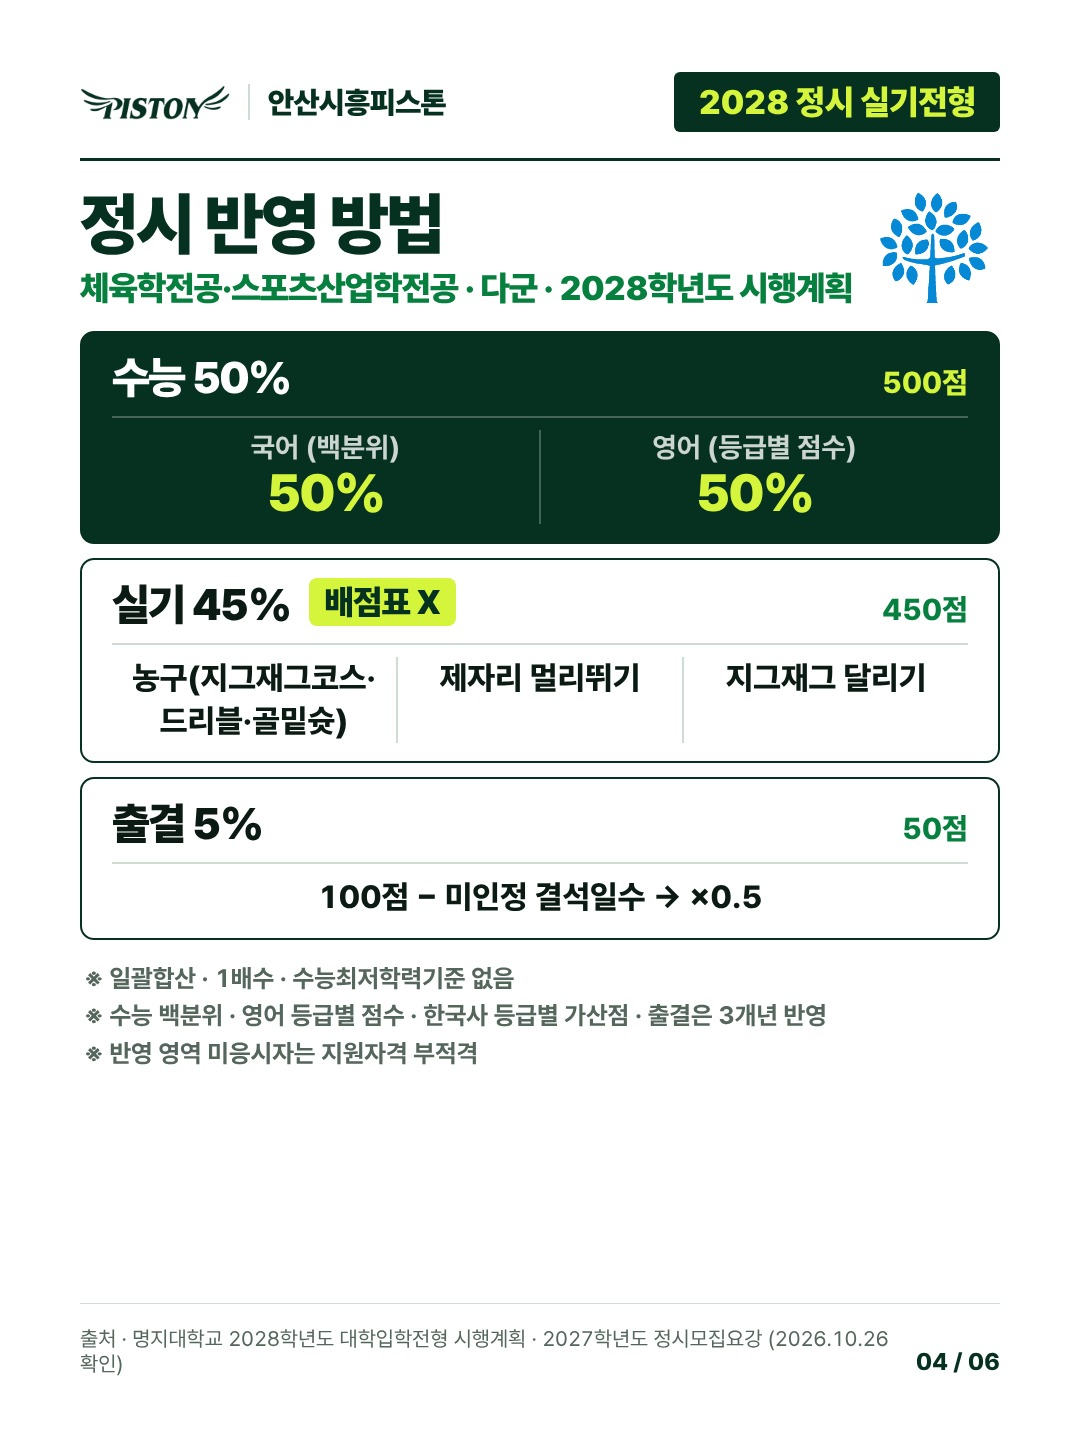
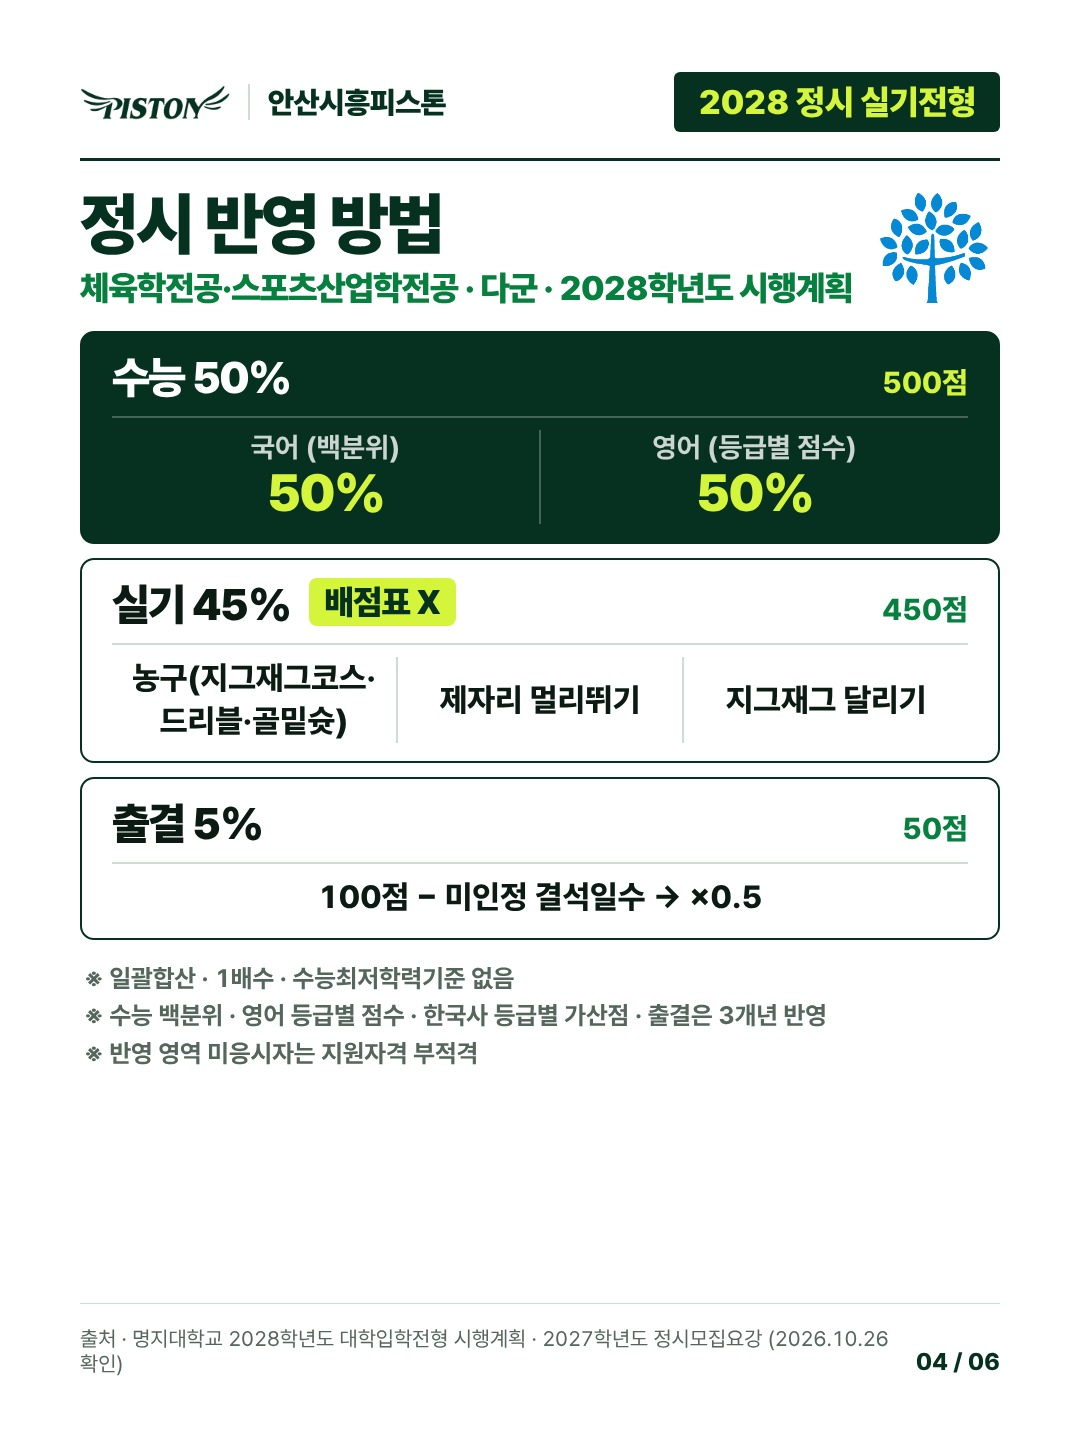
반영방법: 표준점수/변환점수 표기, 칩 정렬
Claude-Session: https://claude.ai/code/session_01EGTn7G8nWP1yv5M2jqmoFb

Changed region(s): [[0.3972, 0.4375, 0.6111, 0.5], [0.6722, 0.4375, 0.8556, 0.5]]

diff --git a/social/out/hanyang-erica-jeongsi-jeongsi/blog.md b/social/out/hanyang-erica-jeongsi-jeongsi/blog.md
@@ -27,7 +27,7 @@
 ## 정시 반영 방법 (스포츠과학부 · 가군 · 2028학년도 시행계획)
 | 구분 | 비율 · 점수 | 반영 내용 |
 | --- | --- | --- |
-| 수능 | 70% · 700점 | 국어 35% · 영어 35% · 수학 또는 탐구 30% (탐구 1과목) |
+| 수능 | 70% · 700점 | 국어 35% (표준점수) · 영어 35% (변환점수) · 수학 또는 탐구 30% (표준점수·탐구 1과목) |
 | 실기 | 30% · 300점 | 제자리멀리뛰기 · 메디신볼 던지기 · 10m×2회 달리기 · 25m×4회 달리기 |
 
 ※ 일괄합산 · 수능최저학력기준 없음

diff --git a/social/out/cau-jeongsi-jeongsi/blog.md b/social/out/cau-jeongsi-jeongsi/blog.md
@@ -27,7 +27,7 @@
 ## 정시 반영 방법 (스포츠과학부 · 나군 · 2028학년도 시행계획)
 | 구분 | 비율 · 점수 | 반영 내용 |
 | --- | --- | --- |
-| 수능 | 60% | 국어 45% · 사탐 45% (2과목) · 영어 10% |
+| 수능 | 60% | 국어 45% (표준점수) · 사탐 45% (2과목·표준점수) · 영어 10% (변환점수) |
 | 실기 | 40% | 100m 달리기 34% · 메디신볼 33% · 제자리멀리뛰기 33% |
 
 ※ 수능최저 없음 · 수학·과탐 미반영 · 한국사 가산점 · 제2외국어/한문 미반영
